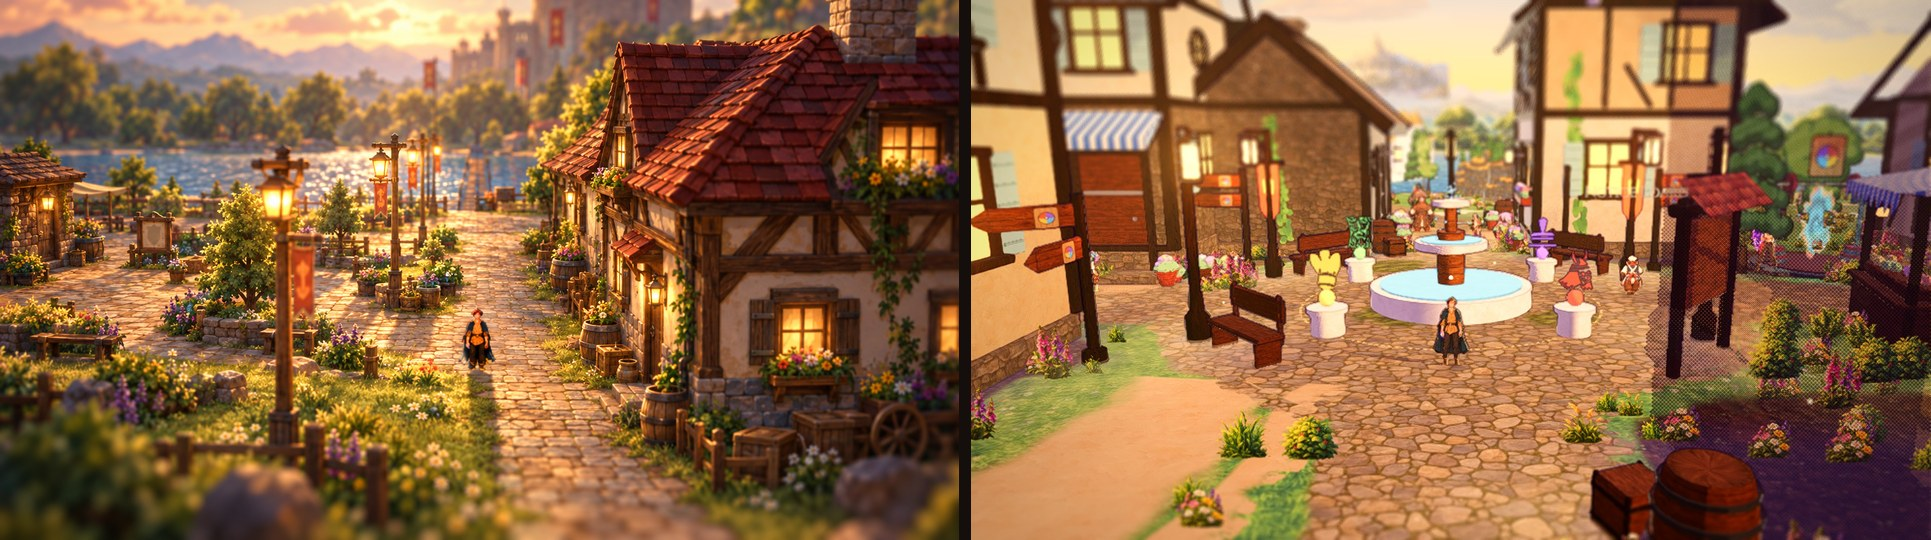
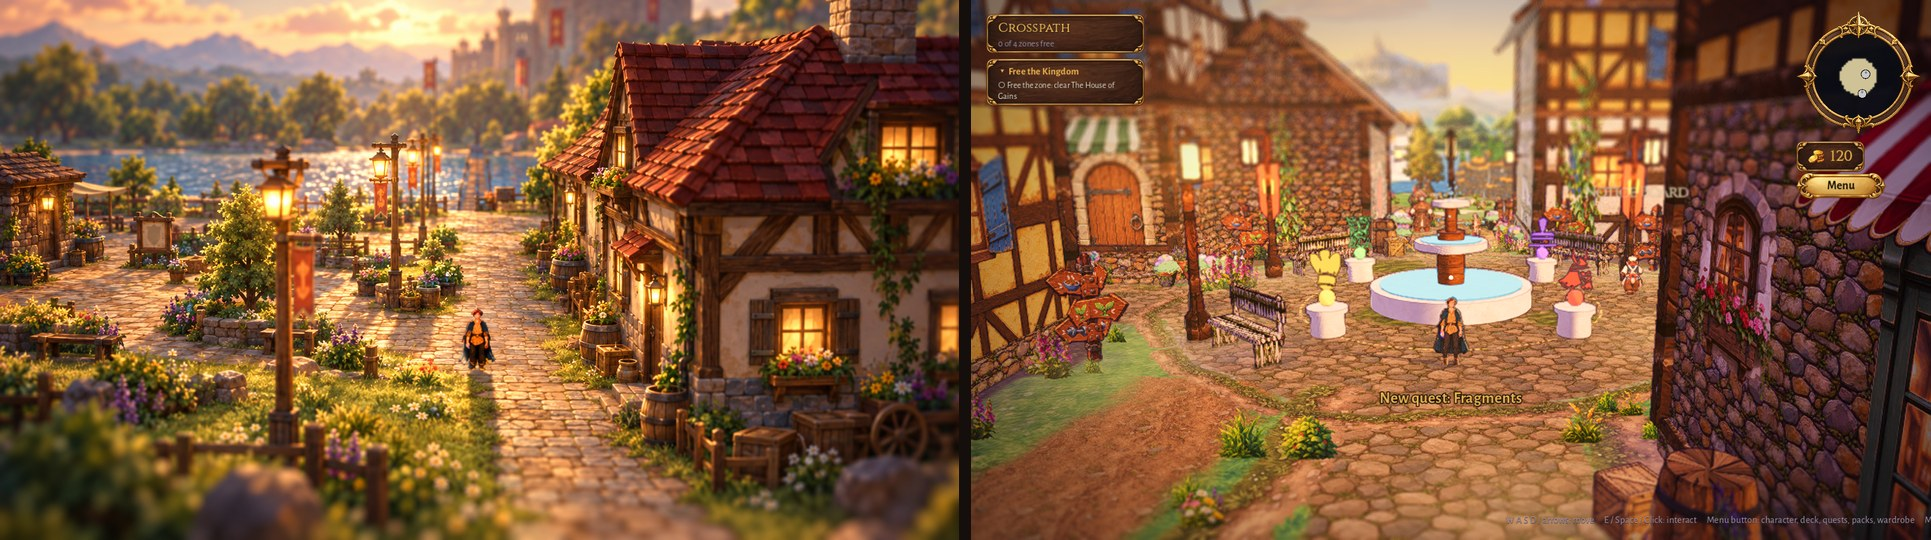
Environment kit, Parts C and D: grade matched to the town paint-over by numbers, occlusion tuned for kit buildings, signposts calmed, report with side-by-sides (default + 3 angles + dialogue), fps 59.7, remaining gaps, asset table and rollout plan incl. Gainlands; 1461 GUT tests pass

diff --git a/docs/art/vertical_slice.md b/docs/art/vertical_slice.md
@@ -1,7 +1,7 @@
 # Vertical slice: the main town square
 
 The first vertical slice rebuilds the town square to match the approved paint-over (`docs/art/paintovers/PAINTOVER-TOWN.png`, an HD-2D, Octopath-like look, painted).
-Everything is built in code from an **Environment Kit**: placeholder textures now (existing TEX-MAT-* / TEX-TOWN-* and a few generated stand-ins), and every slot takes the real
+Everything is built in code from an **Environment Kit**: the real approved art is in (see "Environment kit art pass"); a missing file falls back to a placeholder, and every slot takes the real
 kit art by dropping a file in `assets/art/env_kit/`. Judgment calls are VS-1 ... VS-14 in `docs/design/open_questions.md`. Gameplay, quests, NPC logic and the camera style
 are untouched (the camera rig, FOV, pitch and tilt-shift are the approved values).
 
@@ -44,124 +44,199 @@ Tools: `tools/kit_bench.tscn` (`bash tools/shot.sh res://tools/kit_bench.tscn na
   closed Alchemist and Arena show a padlock; what the signs said is read in a popup when the hero uses them (signposts) or in the dialogue and the prompt (the others).
 - **Scale rule:** the hero (1.25 m) reaches a third of the way up a 3.4 m door; lamp posts 4.2 m, fences 1.1 m, barrels 1.1 m.
 
-## What is still placeholder, by kit ID
+## Environment kit art pass (the real art, Parts A - D)
 
-`bash tools/import_env_kit.sh` (copy-only from `Approved_EnvKit`) turns a placeholder into the real art with no code change. **All 48 sheet ids are in the Drive's `Approved_EnvKit`
-folder now** (it appeared while the slice was being built): a preview with that art is in `vertical_slice/preview_real_art_square.jpg` (not committed to the game; see
-"Dropping the real art in"). Until then every id is a placeholder:
+All 48 kit ids of the sheet (`data/source/env_kit.csv`, rows 8 - 55) are now real art in the game. The Drive folder `G:\My Drive\Card Game Art\Approved_EnvKit` is read-only
+(copy-only import: `bash tools/import_env_kit.sh`, path in `data/source/art_config.cfg` as `envkit_dir`). **Missing ids: none. Files that match no id: none**
+(`PAINTOVER-TOWN.png` and `PAINTOVER-GAINLANDS.png` sit in the same folder as targets, not kit art). Report: `docs/art/env_kit_import_report.md`; judgment calls EK-1 .. EK-5
+in `docs/design/open_questions.md`.
+
+### Paint-over beside the square
+
+![paint-over (left) and the square from the same camera (right)](vertical_slice/compare_square.jpg)
+
+| Angle | |
+|---|---|
+| West market street: the card shop's painted arch door, awning, window box, flowerpot cards, barrel, signposts | ![](vertical_slice/kit_market.jpg) |
+| South end of the square, the Deck Station | ![](vertical_slice/kit_inn.jpg) |
+| Gate Road north | ![](vertical_slice/kit_gate.jpg) |
+| An NPC dialogue open (the card vendor) | ![](vertical_slice/kit_dialogue.jpg) |
+
+### What was done
+
+- **Surfaces**: seams measured on the tiling axes the sheet names and repaired by an edge-band crossfade only where it lowers the seam (cobble, dirt, grass, plank, hedge); the timber
+  walls and the foundation are left as painted (a crossfade ghosted their posts, the raw art already tiles). Normal and roughness maps are derived from the painted luminance
+  (`<ID>_n.webp`, `<ID>_r.webp`) and read by the toon shader (a gentle relief and a soft sheen on iron / varnish). One texel density (400 px/m: a 1024 px tile is 2.56 m) for every
+  surface; a painted wall repeats once per storey so beams land on the floor lines.
+- **Cut-outs and trees**: transparency was already clean (corners alpha 0); faint alpha is cleared, colour is bled into the border (no gray fringe under linear filtering), the
+  art is trimmed and given a pivot (doors / windows / awnings at the base, signs at the iron bracket plate, trees and the signpost at the trunk base). Numbers in
+  `data/art/env_kit_prep.json`.
+- **Concept props**: the well (stone curb, posts, crank, bucket, red-tiled gable), the stall (plank counter, crates of produce, striped scalloped awning, lantern, optional cloth goods
+  card) and the cart (plank bed, spoked wheels, canvas hood, crate, sacks) are rebuilt after ENV-PROP-WELL / -STALL / -CART and textured with kit surfaces.
+- **Square**: painted doors on a stone step (arch, glazed double, round), painted windows (shutters and flower boxes are in the art; lit glass keeps its light pool), awnings
+  as one slanted card, shop signs hung on their bracket (cards, potion, shield, needle, pack, flask, inn), flowerpot cards at doorsteps, painted tree cards by aspect and
+  trunk base, fence cards, the Path signpost, cloth goods on a stall counter. Kit buildings no longer dither away at the lens edge (only their core blocks the hero).
+
+### Numbers
+
+| | paint-over | square (final) |
+|---|---|---|
+| mean RGB | 127, 90, 57 | 135, 94, 65 |
+| luma p5 / p50 / p95 | 26 / 89 / 208 | 24 / 100 / 203 |
+| mean saturation | 0.58 | 0.55 |
+
+**fps (Medium, `tools/fps.sh res://scenes/town.tscn medium`)**: **59.7 - 59.9 avg** (16.7 ms; 590 draw calls, 1,190 objects, 355k primitives; was 55 - 57), min 28 - 34 on the
+first frames while the scene streams. GUT: 1461 / 1461.
+
+### What still does not match (honest list)
+
+1. **Camera framing**: the camera is fixed (approved), so the right-hand building (the Deck Station) fills a third of the frame from the spawn where the paint-over shows the lake
+   and a pier. The paint-over's composition is one painter's cropping; the game cannot move the building without moving the layout. Closest fix: shift the spawn / the inn.
+2. **Fountain and pedestals** are still the one white, out-of-palette set in the square (no kit art; see `ENV-PROP-FOUNTAIN`).
+3. **Roof tiles**: the three roof surfaces are not on the sheet; the existing TEX-MAT-ROOF-* are used (they are redder / flatter than the paint-over's mossy tiles).
+4. **Lamp posts and banners** are built in code (iron and wood, flat red banner); the paint-over's carved posts with bracket scrolls and gold-fringed banners need art.
+5. **Flower beds and low stone walls** are the foliage atlas and a stone box; the paint-over's flowers are denser and brighter in the mid ground.
+6. **Haze and depth**: the paint-over has a stronger warm haze over the lake and a brighter horizon; the tilt-shift is matched in strength but the far trees are flatter.
+7. **Signposts**: the four Path signposts around the fountain are busier than the paint-over's empty lane; they are functional (popups) so they stay, at a calmer size.
+8. **Characters**: sprites remain the clearest things on screen (the environment's saturation was not raised; shadows were lifted slightly so they do not sink into dark walls).
+
+### Extra assets that would close the gap (paste into the sheet)
+
+| ID | Asset | Category | Lock | Image Description | Size / Format | In-Game Use | Priority |
+|---|---|---|---|---|---|---|---|
+| ENV-ROOF-TILE-RED | Red clay roof tiles | Roof surface | SURFACE | Terracotta-red clay roof tiles in soft overlapping rows with a few mossy tiles, seamless | 1024x1024 PNG, tileable both ways | Town roofs (the paint-over's big red roof) | High |
+| ENV-ROOF-TILE-BLUE | Slate blue roof tiles | Roof surface | SURFACE | The same tile pattern in slate blue-grey | 1024x1024 PNG, tileable both ways | Alchemist, chapel, hall | Medium |
+| ENV-ROOF-THATCH | Golden thatch | Roof surface | SURFACE | Golden thatch with shaggy straw lines and a darker band at the eave | 1024x1024 PNG, tileable both ways | Cottages, huts | Medium |
+| ENV-ROOF-RIDGE | Ridge cap | Trim | CUTOUT | A short run of curved ridge cap tiles seen from the side | 1536x512 PNG, transparent | Roof ridges | Low |
+| ENV-CHIMNEY-STONE | Stone chimney | Cut-out | CUTOUT | A stone chimney stack with a stepped cap and two clay pots, straight-on | 1024x1536 PNG, transparent | Chimneys (the paint-over's stone chimney) | Medium |
+| ENV-WALL-STONE | Fieldstone wall | Wall surface | SURFACE | A full fieldstone wall in warm greys and tans with a little moss | 1024x1024 PNG, tileable horizontally | Cave hut, hall, chapel | High |
+| ENV-BANNER-01 | Hanging banner (red) | Cut-out | CUTOUT | A hanging cloth banner with gold fringe and the Path symbol, red | 768x1536 PNG, transparent | Lamp-post banners | High |
+| ENV-BANNER-02 | Hanging banner (blue) | Cut-out | CUTOUT | The same banner in blue | 768x1536 PNG, transparent | Lamp-post banners, Gainlands | Medium |
+| ENV-PROP-LAMPPOST | Wooden lamp post | Prop concept | CUTOUT | The tall carved lamp post with iron lantern bracket from the low game camera | 1024x1536 PNG, transparent | Avenue lamps | High |
+| ENV-PROP-FOUNTAIN | Town fountain | Prop concept | CUTOUT | Warm worn stone basin with moss, a pillar and a small crest | 1536x1536 PNG, transparent | Town square centre (the one white piece left) | High |
+| ENV-PROP-BENCH | Plank bench | Prop | CUTOUT | A weathered plank bench seen from the front | 1536x512 PNG, transparent | Benches | Low |
+| ENV-PROP-FLOWERBOX | Window flower box | Cut-out | CUTOUT | A long wooden window box brimming with mixed flowers | 1536x512 PNG, transparent | Window sills | Medium |
+| ENV-PLANT-FLOWERS-01 | Flower clump (daisy) | Plant | CUTOUT | Daisies and yellow blooms, base at bottom centre | 1024x1024 PNG, transparent | Beds, verges | Medium |
+| ENV-PLANT-FLOWERS-02 | Flower clump (lavender) | Plant | CUTOUT | Lavender spikes with grass | 1024x1024 PNG, transparent | Beds, verges | Medium |
+| ENV-PLANT-FLOWERS-03 | Flower clump (foxglove) | Plant | CUTOUT | Foxgloves and ferns | 1024x1024 PNG, transparent | Beds, verges | Medium |
+| ENV-GROUND-CURB | Stone curb | Ground surface | SURFACE | A strip of cut stone curb and low garden wall | 1536x512 PNG, tileable horizontally | Flower beds, square edge | Medium |
+| ENV-PROP-PIER | Wooden pier | Prop concept | CUTOUT | The little wooden pier at the end of the street, three-quarter view | 1536x1024 PNG, transparent | Gate Road end, lake edge | Medium |
+| ENV-PROP-BUCKET | Bucket | Prop | CUTOUT | A wooden bucket with an iron handle | 1024x1024 PNG, transparent | Doorsteps, stalls | Low |
+| ENV-PROP-HAYBALE | Hay bale | Prop | CUTOUT | A round straw bale | 1024x1024 PNG, transparent | Farms, carts | Low |
+| ENV-PROP-WHEELBARROW | Wheelbarrow | Prop | CUTOUT | A wooden wheelbarrow with a sack | 1024x1024 PNG, transparent | Doorsteps, work sites | Low |
+| ENV-DEC-LIGHTPOOL | Lantern light pool | Decal | CUTOUT | A soft warm elliptical pool of light with a brighter core | 1024x1024 PNG, additive | Under lamps and windows | Medium |
+| ENV-GROUND-COBBLE-WARM | Warm cobble | Ground surface | SURFACE | The cobble in a warmer, sunlit tone with fewer moss patches | 1024x1024 PNG, tileable both ways | Sunlit plaza | Low |
+
+### Kit status (generated by `tools/env_kit_status.gd`)
 
 | Kit ID | Slot | Lock / size | Now | Placeholder | Used by |
 |---|---|---|---|---|---|
-| `ENV-WALL-TIMBER` | wall.main | SURFACE 1024x1024 PNG, tileable horizontally | placeholder | tex:mat_plaster | 6 building presets (home_a, home_b, card_shop) |
-| `ENV-WALL-TIMBER-WARM` | wall.warm | SURFACE 1024x1024 PNG, tileable horizontally | placeholder | tex:mat_plaster | 8 building presets (home_a, home_b, inn) |
-| `ENV-WALL-PLANK` | wall.plank | SURFACE 1024x1024 PNG, tileable horizontally | placeholder | tex:mat_woodplanks | 2 building presets (cottage, equipment_shop) |
-| `ENV-WALL-FOUNDATION` | wall.foundation | SURFACE 1024x512 PNG, tileable horizontally | placeholder | tex:mat_stonewall | 13 building presets (home_a, home_b, cottage) |
-| `ENV-ROOF-EAVE` | roof.eave | CUTOUT 1536x512 PNG, transparent | placeholder | tex:mat_timber | 13 building presets (home_a, home_b, cottage) |
-| `ENV-BEAM` | wall.beam | CUTOUT 1536x512 PNG, transparent | placeholder | tex:mat_timber | 13 building presets (home_a, home_b, cottage) |
-| `ENV-AWNING-01` | awning.a | CUTOUT 1536x1024 PNG, transparent | placeholder | gen:stripes_red | 5 building presets (home_b, inn, card_shop) |
-| `ENV-AWNING-02` | awning.b | CUTOUT 1536x1024 PNG, transparent | placeholder | gen:stripes_green | 2 building presets (potion_shop, clothing_shop) |
-| `ENV-DOOR-01` | door.a | CUTOUT 1024x1536 PNG, transparent | placeholder | tex:mat_woodplanks | 5 building presets (home_a, home_b, cottage) |
-| `ENV-DOOR-02` | door.b | CUTOUT 1024x1536 PNG, transparent | placeholder | tex:mat_woodplanks | 4 building presets (inn, card_shop, equipment_shop) |
-| `ENV-DOOR-03` | door.c | CUTOUT 1024x1024 PNG, transparent | placeholder | tex:mat_woodplanks | 4 building presets (alchemist, stone_hut, chapel) |
-| `ENV-WINDOW-01` | window.a | CUTOUT 1024x1024 PNG, transparent | placeholder | gen:window_cross | 13 building presets (home_a, home_b, cottage) |
-| `ENV-WINDOW-02` | window.b | CUTOUT 1024x1024 PNG, transparent | placeholder | gen:window_wide | 7 building presets (home_a, home_b, inn) |
-| `ENV-WINDOW-03` | window.c | CUTOUT 1024x1024 PNG, transparent | placeholder | gen:window_dark | 1 building presets (home_a) |
-| `ENV-WINDOW-04` | window.d | CUTOUT 1024x1024 PNG, transparent | placeholder | gen:window_round | 6 building presets (home_b, card_shop, potion_shop) |
-| `ENV-WINDOW-05` | window.e | CUTOUT 1536x1024 PNG, transparent | placeholder | gen:window_shop | 2 building presets (card_shop, clothing_shop) |
-| `ENV-SIGN-CARDS` | sign.cards | CUTOUT 1024x1024 PNG, transparent | placeholder | gen:sign_cards | 1 building presets (card_shop) |
-| `ENV-SIGN-POTION` | sign.potion | CUTOUT 1024x1024 PNG, transparent | placeholder | gen:sign_potion | 1 building presets (potion_shop) |
-| `ENV-SIGN-SHIELD` | sign.shield | CUTOUT 1024x1024 PNG, transparent | placeholder | gen:sign_shield | 1 building presets (equipment_shop) |
-| `ENV-SIGN-NEEDLE` | sign.needle | CUTOUT 1024x1024 PNG, transparent | placeholder | gen:sign_needle | 1 building presets (clothing_shop) |
-| `ENV-SIGN-PACK` | sign.pack | CUTOUT 1024x1024 PNG, transparent | placeholder | gen:sign_pack | 1 building presets (pack_shop) |
-| `ENV-SIGN-FLASK` | sign.flask | CUTOUT 1024x1024 PNG, transparent | placeholder | gen:sign_flask | 1 building presets (alchemist) |
-| `ENV-SIGN-INN` | sign.inn | CUTOUT 1024x1024 PNG, transparent | placeholder | gen:sign_inn | 1 building presets (inn) |
-| `ENV-SIGNPOST` | sign.post | CUTOUT 1024x1536 PNG, transparent | placeholder | gen:sign_path | PropKit signpost (Path crest), passage signs, Rift Express sign |
-| `ENV-GROUND-DIRTPATH` | ground.dirt | SURFACE 1024x1024 PNG, tileable | placeholder | tex:mat_plaster | PathTool dirt paths (grave road, south road), worn patches |
-| `ENV-GROUND-COBBLE` | ground.cobble | SURFACE 1024x1024 PNG, tileable | placeholder | tex:town_stone | PathTool cobble streets and the plaza |
-| `ENV-GROUND-GRASS-CALM` | ground.grass | SURFACE 1024x1024 PNG, tileable | placeholder | tex:town_grass | kit bench ground (the town keeps its painted TEX-TOWN-GRASS ground) |
-| `DEC-PATHEDGE` | decal.pathedge | CUTOUT 1536x512 PNG, transparent | placeholder | gen:pathedge | PathTool edge strips |
-| `DEC-WORNPATCH` | decal.worn | CUTOUT 1024x1024 PNG, transparent | placeholder | gen:wornpatch | doorsteps, bends (PathTool.patch) |
-| `DEC-IVY` | decal.ivy | CUTOUT 1024x1536 PNG, transparent | placeholder | gen:ivy | 5 building presets (home_a, cottage, inn), wall sockets (ivy) |
-| `DEC-WALLSTAIN` | decal.stain | CUTOUT 1024x1024 PNG, transparent | placeholder | gen:wallstain | wall sockets (stain) |
-| `ENV-TREE-OAK` | tree.oak | TREE 1024x1536 PNG, transparent | placeholder | gen:tree_oak | TreeCards / tree fields |
-| `ENV-TREE-FRUIT` | tree.fruit | TREE 1024x1536 PNG, transparent | placeholder | gen:tree_fruit | TreeCards / tree fields |
-| `ENV-TREE-PINE` | tree.pine | TREE 1024x1536 PNG, transparent | placeholder | gen:tree_pine | TreeCards / tree fields |
-| `ENV-TREE-BIRCH` | tree.birch | TREE 1024x1536 PNG, transparent | placeholder | gen:tree_birch | TreeCards / tree fields |
-| `ENV-HEDGE` | hedge | SURFACE 1024x1024 PNG, tileable | placeholder | tex:mat_leaves | PropKit hedge, bush |
-| `ENV-PROP-BARREL` | prop.barrel | SURFACE 1024x1024 PNG, tileable horizontally | placeholder | tex:mat_woodplanks | PropKit barrel |
-| `ENV-PROP-CRATE` | prop.crate | SURFACE 1024x1024 PNG | placeholder | tex:mat_woodplanks | PropKit crate |
-| `ENV-PROP-SACK` | prop.sack | SURFACE 1024x1024 PNG, tileable | placeholder | gen:burlap | PropKit sack, stall, cart |
-| `ENV-PROP-FENCE` | prop.fence | CUTOUT 1536x512 PNG, transparent | placeholder | tex:mat_woodplanks | PropKit picket fence, bench, planter |
-| `ENV-PROP-FENCE-RAIL` | prop.rail | CUTOUT 1536x512 PNG, transparent | placeholder | tex:mat_woodplanks | PropKit rail fence |
-| `ENV-PROP-CANVAS` | prop.canvas | SURFACE 1024x1024 PNG, tileable | placeholder | gen:stripes_cream | PropKit cart hood |
-| `ENV-PROP-CLOTHGOODS` | prop.cloth | CUTOUT 1536x1024 PNG, transparent | placeholder | gen:stripes_blue | (clothier counter: not built yet) |
-| `ENV-PROP-FLOWERPOTS` | prop.pots | CUTOUT 1024x1024 PNG, transparent | placeholder | tex:mat_brick | PropKit flowerpot, building pots and window boxes |
-| `ENV-PROP-LANTERN` | prop.lantern | CUTOUT 1024x1024 PNG, transparent | placeholder | tex:mat_metal | (lantern meshes are built; the card is for hung lanterns) |
-| `ENV-PROP-WELL` | prop.well | CUTOUT 1024x1536 PNG, transparent | placeholder | tex:mat_stonewall | PropKit well |
-| `ENV-PROP-STALL` | prop.stall | CUTOUT 1024x1536 PNG, transparent | placeholder | tex:mat_woodplanks | PropKit stall |
-| `ENV-PROP-CART` | prop.cart | CUTOUT 1024x1536 PNG, transparent | placeholder | tex:mat_woodplanks | PropKit cart |
+| `ENV-WALL-TIMBER` | wall.main | SURFACE 1024x1024 PNG, tileable horizontally | art | tex:mat_plaster | 6 building presets (home_a, home_b, card_shop) |
+| `ENV-WALL-TIMBER-WARM` | wall.warm | SURFACE 1024x1024 PNG, tileable horizontally | art | tex:mat_plaster | 8 building presets (home_a, home_b, inn) |
+| `ENV-WALL-PLANK` | wall.plank | SURFACE 1024x1024 PNG, tileable horizontally | art | tex:mat_woodplanks | 2 building presets (cottage, equipment_shop) |
+| `ENV-WALL-FOUNDATION` | wall.foundation | SURFACE 1024x512 PNG, tileable horizontally | art | tex:mat_stonewall | 13 building presets (home_a, home_b, cottage) |
+| `ENV-ROOF-EAVE` | roof.eave | CUTOUT 1536x512 PNG, transparent | art | tex:mat_timber | 13 building presets (home_a, home_b, cottage) |
+| `ENV-BEAM` | wall.beam | CUTOUT 1536x512 PNG, transparent | art | tex:mat_timber | 13 building presets (home_a, home_b, cottage) |
+| `ENV-AWNING-01` | awning.a | CUTOUT 1536x1024 PNG, transparent | art | gen:stripes_red | 5 building presets (home_b, inn, card_shop) |
+| `ENV-AWNING-02` | awning.b | CUTOUT 1536x1024 PNG, transparent | art | gen:stripes_green | 2 building presets (potion_shop, clothing_shop) |
+| `ENV-DOOR-01` | door.a | CUTOUT 1024x1536 PNG, transparent | art | tex:mat_woodplanks | 5 building presets (home_a, home_b, cottage) |
+| `ENV-DOOR-02` | door.b | CUTOUT 1024x1536 PNG, transparent | art | tex:mat_woodplanks | 4 building presets (inn, card_shop, equipment_shop) |
+| `ENV-DOOR-03` | door.c | CUTOUT 1024x1024 PNG, transparent | art | tex:mat_woodplanks | 4 building presets (alchemist, stone_hut, chapel) |
+| `ENV-WINDOW-01` | window.a | CUTOUT 1024x1024 PNG, transparent | art | gen:window_cross | 13 building presets (home_a, home_b, cottage) |
+| `ENV-WINDOW-02` | window.b | CUTOUT 1024x1024 PNG, transparent | art | gen:window_wide | 7 building presets (home_a, home_b, inn) |
+| `ENV-WINDOW-03` | window.c | CUTOUT 1024x1024 PNG, transparent | art | gen:window_dark | 1 building presets (home_a) |
+| `ENV-WINDOW-04` | window.d | CUTOUT 1024x1024 PNG, transparent | art | gen:window_round | 6 building presets (home_b, card_shop, potion_shop) |
+| `ENV-WINDOW-05` | window.e | CUTOUT 1536x1024 PNG, transparent | art | gen:window_shop | 2 building presets (card_shop, clothing_shop) |
+| `ENV-SIGN-CARDS` | sign.cards | CUTOUT 1024x1024 PNG, transparent | art | gen:sign_cards | 1 building presets (card_shop) |
+| `ENV-SIGN-POTION` | sign.potion | CUTOUT 1024x1024 PNG, transparent | art | gen:sign_potion | 1 building presets (potion_shop) |
+| `ENV-SIGN-SHIELD` | sign.shield | CUTOUT 1024x1024 PNG, transparent | art | gen:sign_shield | 1 building presets (equipment_shop) |
+| `ENV-SIGN-NEEDLE` | sign.needle | CUTOUT 1024x1024 PNG, transparent | art | gen:sign_needle | 1 building presets (clothing_shop) |
+| `ENV-SIGN-PACK` | sign.pack | CUTOUT 1024x1024 PNG, transparent | art | gen:sign_pack | 1 building presets (pack_shop) |
+| `ENV-SIGN-FLASK` | sign.flask | CUTOUT 1024x1024 PNG, transparent | art | gen:sign_flask | 1 building presets (alchemist) |
+| `ENV-SIGN-INN` | sign.inn | CUTOUT 1024x1024 PNG, transparent | art | gen:sign_inn | 1 building presets (inn) |
+| `ENV-SIGNPOST` | sign.post | CUTOUT 1024x1536 PNG, transparent | art | gen:sign_path | PropKit signpost (Path crest), passage signs, Rift Express sign |
+| `ENV-GROUND-DIRTPATH` | ground.dirt | SURFACE 1024x1024 PNG, tileable | art | tex:mat_plaster | PathTool dirt paths (grave road, south road), worn patches |
+| `ENV-GROUND-COBBLE` | ground.cobble | SURFACE 1024x1024 PNG, tileable | art | tex:town_stone | PathTool cobble streets and the plaza |
+| `ENV-GROUND-GRASS-CALM` | ground.grass | SURFACE 1024x1024 PNG, tileable | art | tex:town_grass | kit bench ground (the town keeps its painted TEX-TOWN-GRASS ground) |
+| `DEC-PATHEDGE` | decal.pathedge | CUTOUT 1536x512 PNG, transparent | art | gen:pathedge | PathTool edge strips |
+| `DEC-WORNPATCH` | decal.worn | CUTOUT 1024x1024 PNG, transparent | art | gen:wornpatch | doorsteps, bends (PathTool.patch) |
+| `DEC-IVY` | decal.ivy | CUTOUT 1024x1536 PNG, transparent | art | gen:ivy | 5 building presets (home_a, cottage, inn), wall sockets (ivy) |
+| `DEC-WALLSTAIN` | decal.stain | CUTOUT 1024x1024 PNG, transparent | art | gen:wallstain | wall sockets (stain) |
+| `ENV-TREE-OAK` | tree.oak | TREE 1024x1536 PNG, transparent | art | gen:tree_oak | TreeCards / tree fields |
+| `ENV-TREE-FRUIT` | tree.fruit | TREE 1024x1536 PNG, transparent | art | gen:tree_fruit | TreeCards / tree fields |
+| `ENV-TREE-PINE` | tree.pine | TREE 1024x1536 PNG, transparent | art | gen:tree_pine | TreeCards / tree fields |
+| `ENV-TREE-BIRCH` | tree.birch | TREE 1024x1536 PNG, transparent | art | gen:tree_birch | TreeCards / tree fields |
+| `ENV-HEDGE` | hedge | SURFACE 1024x1024 PNG, tileable | art | tex:mat_leaves | PropKit hedge, bush |
+| `ENV-PROP-BARREL` | prop.barrel | SURFACE 1024x1024 PNG, tileable horizontally | art | tex:mat_woodplanks | PropKit barrel |
+| `ENV-PROP-CRATE` | prop.crate | SURFACE 1024x1024 PNG | art | tex:mat_woodplanks | PropKit crate |
+| `ENV-PROP-SACK` | prop.sack | SURFACE 1024x1024 PNG, tileable | art | gen:burlap | PropKit sack, stall, cart |
+| `ENV-PROP-FENCE` | prop.fence | CUTOUT 1536x512 PNG, transparent | art | tex:mat_woodplanks | PropKit picket fence, bench, planter |
+| `ENV-PROP-FENCE-RAIL` | prop.rail | CUTOUT 1536x512 PNG, transparent | art | tex:mat_woodplanks | PropKit rail fence |
+| `ENV-PROP-CANVAS` | prop.canvas | SURFACE 1024x1024 PNG, tileable | art | gen:stripes_cream | PropKit cart hood |
+| `ENV-PROP-CLOTHGOODS` | prop.cloth | CUTOUT 1536x1024 PNG, transparent | art | gen:stripes_blue | (clothier counter: not built yet) |
+| `ENV-PROP-FLOWERPOTS` | prop.pots | CUTOUT 1024x1024 PNG, transparent | art | tex:mat_brick | PropKit flowerpot, building pots and window boxes |
+| `ENV-PROP-LANTERN` | prop.lantern | CUTOUT 1024x1024 PNG, transparent | art | tex:mat_metal | (lantern meshes are built; the card is for hung lanterns) |
+| `ENV-PROP-WELL` | prop.well | CUTOUT 1024x1536 PNG, transparent | art | tex:mat_stonewall | PropKit well |
+| `ENV-PROP-STALL` | prop.stall | CUTOUT 1024x1536 PNG, transparent | art | tex:mat_woodplanks | PropKit stall |
+| `ENV-PROP-CART` | prop.cart | CUTOUT 1024x1536 PNG, transparent | art | tex:mat_woodplanks | PropKit cart |
 | `ENV-ROOF-TILE-RED` | roof.red |   | placeholder | tex:mat_roof_red | 6 building presets (home_a, home_b, inn) |
 | `ENV-ROOF-TILE-BLUE` | roof.blue |   | placeholder | tex:mat_roof_blue | 4 building presets (potion_shop, alchemist, chapel) |
 | `ENV-ROOF-THATCH` | roof.thatch |   | placeholder | tex:mat_thatch | 3 building presets (cottage, pack_shop, stone_hut) |
 
-The three roof surfaces are not on the sheet (the sheet's `ENV-ROOF-EAVE` is the fascia only): `ENV-ROOF-TILE-RED`, `ENV-ROOF-TILE-BLUE`, `ENV-ROOF-THATCH` are suggested ids
-(see "What else would close the gap") and use TEX-MAT-ROOF-RED / -BLUE / -THATCH now.
+The three roof surfaces (`ENV-ROOF-TILE-RED`, `-BLUE`, `ENV-ROOF-THATCH`) are suggested ids, not on the sheet: they still use TEX-MAT-ROOF-*.
 
-## Dropping the real art in
+## Rollout plan
 
-`EnvKit.texture(id)` takes `assets/art/env_kit/<ID>.webp` when it exists, so the import is the whole integration. Looking at the art in the slice before committing it
-(`ENV_KIT_ART_DIR=res://_art_inbox/env_kit_preview/` after `bash tools/import_env_kit.sh --out=res://_art_inbox/env_kit_preview/`) shows it drops in cleanly (trees,
-cobbles, signs and windows read well) and what the first art pass should adjust:
+### Method (the same for every area)
 
-1. **Wall surfaces already paint the half-timbering**, so the geometry studs and braces double it: set `"timber": "none"` in the presets (or only keep posts and floor beams) and
-   re-check the `tile` size (2.4 m shows the pattern about every wall panel).
-2. **Doors, windows, awnings and signs are cut-outs with their own frame / bracket**: the kit swaps the geometry for a quad when art exists, but the quad size and aspect
-   (doors 2:3, signs 1:1, awnings 3:2) should be set from the sheet's size column rather than the placeholder metres.
-3. **Fence, barrel and crate art is one face**: wrap with the sheet's mapping notes (crate: one face per side; barrel: tileable horizontally).
-4. Re-run `bash tools/run_town_slice_smoke.sh` and the fps probe after the swap.
+1. **Reference first**: the zone's paint-over goes next to the shot (`tools/side_by_side.gd`) and the grade is matched by numbers (mean RGB, luma p5 / p50 / p95, saturation: the
+   script in this pass's report) before art is judged by eye. Grade is data (`StylePresets`, `zone_looks.json`).
+2. **Layout, then kit**: each building is a preset (`data/art/building_presets.json`) and a `TownLayout._kit` row; roads are `PathTool` curves; props are `PropClusters`
+   placed at doorsteps and corners, never scattered on lanes. Painted surfaces are dropped in by id (`bash tools/import_env_kit.sh`), nothing else changes.
+3. **Check**: `tools/occlusion_probe.gd` (what dithers at the spawn), `tools/kit_bench.tscn` (one preset / prop in isolation), `tools/fps.sh` (Medium must hold 60), the e2e
+   smoke of the area changed, then side by side.
+4. **Budget**: batch anything repeated (`KitBatch`, MultiMesh, `KitPools`); cut-out cards over geometry where the art carries the detail (fences, signs, pots, signposts, doors);
+   keep real lights to the lantern budget.
 
-## What else would close the gap (suggested sheet rows)
+### Rest of the main town
 
-| Suggested ID | Category | Description |
+| Area | Kit pieces already there | Needs |
 |---|---|---|
-| `ENV-ROOF-TILE-RED` | Roof surface | Terracotta-red clay roof tiles in soft overlapping rows with a few mossy tiles, seamless, 1024x1024, tileable both ways (the paint-over's big red roof). |
-| `ENV-ROOF-TILE-BLUE` | Roof surface | The same tile pattern in slate blue-grey, for the Alchemist, the chapel and the hall. |
-| `ENV-ROOF-THATCH` | Roof surface | Golden thatch with shaggy straw lines and a darker band at the eave, seamless 1024x1024. |
-| `ENV-ROOF-RIDGE` | Trim cut-out | A short run of curved ridge cap tiles seen from the side, 1536x512, tileable left-right. |
-| `ENV-CHIMNEY-STONE` | Cut-out | A stone chimney stack with a stepped cap and two clay pots, straight-on, 1024x1536 (the paint-over's stone chimney). |
-| `ENV-WALL-STONE` | Wall surface | A full fieldstone wall (not only a foundation band) in warm greys and tans, seamless 1024x1024, for the cave hut, the hall and the chapel. |
-| `ENV-BANNER-01` / `-02` | Cut-out | A hanging cloth banner with a gold fringe and a Path symbol in red / blue, 768x1536, the lamp-post banners of the paint-over (now flat red cloth). |
-| `ENV-PROP-LAMPPOST` | Prop concept | The tall wooden lamp post of the paint-over with its iron lantern bracket, from the low game camera, 1024x1536 (now iron-and-wood built in code). |
-| `ENV-PROP-BENCH` | Prop texture | A weathered plank bench seen from the front, 1536x512, transparent (benches use the fence wood now). |
-| `ENV-PROP-FLOWERBOX` | Cut-out | A long wooden window box brimming with mixed flowers, 1536x512, transparent. |
-| `ENV-PLANT-FLOWERS-01...03` | Cut-out | Three flower clumps (daisies and yellow blooms, lavender, foxgloves) as separate cards, 1024x1024, base at the bottom centre (now the FOL atlas). |
-| `ENV-GROUND-CURB` | Ground surface | A strip of cut stone curb and low garden wall, 1536x512, tileable left-right (flowerbeds in the paint-over have stone walls). |
-| `ENV-PROP-FOUNTAIN` | Prop concept + surface | The town fountain in warm stone with a worn basin and moss (it is the one bright white, out-of-palette piece left in the square), plus a seamless warm stone surface for the crest plinths. |
-| `ENV-PROP-PIER` | Prop concept | The little wooden pier at the end of the street in the paint-over, three-quarter view, 1536x1024, to build the Gate Road's end. |
-| `ENV-PROP-BUCKET`, `ENV-PROP-HAYBALE`, `ENV-PROP-WHEELBARROW` | Prop cut-outs | Small dressing pieces for doorsteps and stalls, 1024x1024 each. |
-| `ENV-DEC-LIGHTPOOL` | Decal | A soft warm elliptical pool of lantern light with a slightly brighter core, 1024x1024, additive (now a generic soft disc). |
+| Gate Road and the castle approach | cobble, dirt path + edge, fence cards, pine / oak / birch cards, lamp posts | `ENV-PROP-PIER`, `ENV-WALL-STONE` (gatehouse), `ENV-BANNER-01` |
+| Houses on the side streets (Maren, homes) | timber walls (plain / warm), plank, foundation, eave, beam, doors 01 / 03, windows 01 - 04, ivy, stain, pots | `ENV-ROOF-TILE-RED`, `ENV-CHIMNEY-STONE`, `ENV-PROP-FLOWERBOX` |
+| Hall of Records, chapel | foundation, doors, windows, beams | `ENV-WALL-STONE`, `ENV-ROOF-TILE-BLUE`, `ENV-ROOF-RIDGE` |
+| Lake edge and the dock | hedge, fence rail, barrels, crates, sacks | `ENV-PROP-PIER`, `ENV-GROUND-CURB`, reeds |
+| Fountain plaza | cobble, benches (geometry) | `ENV-PROP-FOUNTAIN`, `ENV-PROP-BENCH` |
 
-## Performance (Ryzen 5 4500U iGPU, 1600x900, vsync off, `bash tools/fps.sh res://scenes/town.tscn <quality>`)
+### Zones
 
-| Quality | fps (avg ms) | Notes |
+| Zone | Reuses from the kit | Zone-specific additions (suggested ids) |
 |---|---|---|
-| Low | 59.7 (16.8) | |
-| **Medium** | **55 - 57 (17.5 - 18.1)** | was 59.1 - 60 before the slice; 849 draw calls (from 713), 1,448 objects, 726k primitives |
-| High | 18 (55) | the iGPU cannot carry High (as before; not a target) |
+| **Starting forest** | `ENV-TREE-PINE / -OAK / -BIRCH` (replaces the cones first), `ENV-GROUND-DIRTPATH`, `DEC-PATHEDGE`, `ENV-HEDGE`, `ENV-PROP-FENCE-RAIL`, `ENV-GROUND-GRASS-CALM` | `ENV-PLANT-FERN-01` (fern clump), `ENV-PLANT-MUSHROOM-01`, `ENV-PROP-STUMP`, `ENV-PROP-LOG`, `ENV-GROUND-MOSS` (darker moss floor), `ENV-DEC-LEAFLITTER`; a blue-dusk grade only |
+| **Gainlands (the gym)** | barrels, crates, sacks, canvas stalls (`ENV-PROP-STALL`, `-CANVAS`, awnings 01 / 02), fence cards, lanterns, pine trees, `DEC-WORNPATCH`, dirt path, hedge, `ENV-GROUND-GRASS-CALM`, signposts | see "Gainlands slice" below |
+| **Buffet (restaurants)** | plank walls, awnings, shop windows 05, signs (needle / flask pattern), `ENV-PROP-CLOTHGOODS` pattern, lanterns, crates | `ENV-SIGN-FORK`, `ENV-SIGN-CAKE`, `ENV-WALL-TILE-CHECKER` (kitchen tile surface), `ENV-PROP-TABLE`, `ENV-PROP-CHAIR`, `ENV-PROP-OVEN`, `ENV-PROP-SERVINGCART`, glossy sauce / counter surface (uses `kit_sheen`) |
+| **Heap / Dump** | plank walls, barrels, crates, sacks, cart, fence (weathered), `DEC-WALLSTAIN`, dirt path | `ENV-WALL-SCRAP` (corrugated metal), `ENV-PROP-JUNKPILE`, `ENV-PROP-TIRE`, `ENV-PROP-OILDRUM`, `ENV-GROUND-ASH` (grey rubble), `ENV-DEC-OILSTAIN` |
+| **Capital (facades, outskirts)** | foundation, timber walls, doors 02, windows 02 - 05, awnings, signs, lanterns, cobble, banners | `ENV-WALL-STONE-ASHLAR`, `ENV-ROOF-SLATE`, `ENV-WINDOW-GOTHIC`, `ENV-BANNER-03` (the Kingdom crest), `ENV-PROP-STATUE`, `ENV-GROUND-FLAGSTONE`; dark / freed variants are grades |
+| **D.N.A. (office)** | none of the cosy kit (cold monochrome by design) | `ENV-WALL-OFFICE`, `ENV-PROP-DESK`, `ENV-PROP-CUBICLE`, `ENV-GROUND-CARPET` in the desaturated grade |
+| **Dungeons** | stone foundation as wall, beams, barrels, crates, lanterns, ivy | `ENV-WALL-DUNGEON`, `ENV-GROUND-FLAGSTONE`, `ENV-PROP-TORCH`, `ENV-PROP-CHAINS`, `ENV-PROP-COBWEB` |
 
-**The Medium target of 60 is not quite met (about 3 fps short).** What was done: props, trees, lamp posts and pools are batched (a 1,640 draw-call first version is 849), buildings
-cast their shadows from a three-surface proxy, flat details share one surface, the ground tiles no longer dither as "foreground clutter" (a bug that was already there: it cost
-about 1 - 2 fps in the town), and the occlusion fader's tests run at about 16 Hz. What would close the rest: merging each building's twelve surfaces by material across the street
-(they must stay separate nodes for the dissolve), a smaller number of window glow quads, and fewer chimney emitters.
+### The Gainlands slice (from `PAINTOVER-GAINLANDS.png`)
 
-## Rolling the kit out to the other zones
+What the paint-over shows: a bright, saturated gym-fair on a green meadow at the lake: a **barrel-shaped gym hut** with a dumbbell crest, a glowing **quest portal beam** on a
+stepped stone platform with the hero, big **wooden signboards with a dumbbell** pictogram, blue-and-white and red-and-white **striped canvas stalls** hung with lanterns and
+**bunting**, a counter with coloured **jars**, **barbells and weight plates** on racks, **punching posts and ropes**, wooden fences, barrels, pines in the foreground, a dirt
+track and a stream in the lower right. It is warmer, greener and much busier than the town; the light is a lower, orange sun with a bright flare through the portal.
 
-1. **Buildings**: `BuildingPresets.build(name)` anywhere; a zone only needs a `TownLayout`-like list of (preset, position, yaw) and `TownKit.place_building` for obstacles. The
-   Gainlands gym, the Buffet's restaurants and the Dump's shacks are new presets in `building_presets.json` (wall / roof ids per zone, e.g. `ENV-WALL-PLANK` + rust roof).
-2. **Props and clusters**: `PropClusters.make(name)` + `TownKit.place_cluster` dress any doorway; `KitPools` / `KitBatch` batch them. New props are one function in `prop_kit.gd`.
-3. **Paths**: `PathTool.build(parent, control_points, {kind, width})`: each zone's roads become curves with a soft edge; the zone's ground texture id is the only change.
-4. **Trees**: `TownBuilder`'s tree fields and `TreeCards` replace the cone trees in the starting forest and the zones (the forest is the first candidate: it is where the sheet says
-   `ENV-TREE-PINE` replaces the cones).
-5. **Grade and light**: `green_calm` / `red_calm` and the sun yaw are per-area data in `zone_looks.json` / `StylePresets`; set them per zone from the paint-over of that zone
-   (`PAINTOVER-GAINLANDS.png` is the next).
-6. **Order that makes sense**: Starting forest (trees, paths), Gainlands (the second paint-over), then the Capital's facades, then the Buffet and the Dump.
+| Need | Reuse | New (suggested ids, same locks as the town kit) |
+|---|---|---|
+| Stalls and counters | `ENV-PROP-STALL` shape with `ENV-AWNING-01` (red) and a blue variant; barrels, crates, sacks, lanterns | `ENV-AWNING-03` (blue / cream stripes, 1536x1024 cut-out), `ENV-AWNING-04` (plain red canvas), `ENV-PROP-JARS` (a row of coloured jars, 1536x512 cut-out) |
+| Signage | `ENV-SIGNPOST`, `ENV-SIGN-*` bracket style | `ENV-SIGN-DUMBBELL` (big plank board on two posts, 1536x1024), `ENV-SIGN-DUMBBELL-SMALL`, `ENV-BANNER-DUMBBELL-BLUE / -RED` |
+| Gym hut | `ENV-WALL-PLANK`, `ENV-BEAM`, door 03 | `ENV-PROP-BARRELHUT` (the big barrel building as a concept image, 1536x1536), `ENV-ROOF-CANVAS` |
+| Equipment | wood and iron surfaces | `ENV-PROP-BARBELL-RACK`, `ENV-PROP-WEIGHTPLATE-YELLOW / -RED` (large painted discs), `ENV-PROP-KETTLEBELL`, `ENV-PROP-PUNCHPOST`, `ENV-PROP-ROPE` (the hung rope lines) |
+| Festival dressing | lanterns | `ENV-DEC-BUNTING` (a swag of triangular flags, 1536x512 tileable left-right), `ENV-PROP-FLAGPOLE` |
+| Hub | `DEC-WORNPATCH`, cobble | `ENV-PROP-PLATFORM-STEPS` (a round stepped stone dais), `ENV-DEC-PORTALBEAM` (an additive vertical light beam) |
+| Ground | `ENV-GROUND-GRASS-CALM`, `-DIRTPATH`, `DEC-PATHEDGE` | `ENV-GROUND-GRASS-BRIGHT` (a more saturated meadow), `ENV-WATER-STREAM` edge decal |
+| Grade | `green_calm` 0 (already in `zone_looks.json`), warmth 0.12, saturation 1.16 | a lower sun (pitch about -22) and a stronger lake haze |
+
+Build order for the slice: layout and paths (the dais, three spokes), stalls and fences with existing kit, then the barrel hut and signboards as the first new art, then equipment
+and bunting; side by side after each step.

diff --git a/docs/design/open_questions.md b/docs/design/open_questions.md
@@ -722,3 +722,6 @@ Judgment calls from the first vertical slice (`docs/art/vertical_slice.md`): the
 - **EK-3** The seam repair (edge-band crossfade) is skipped for the structured patterns (timber walls, foundation): a crossfade ghosted their posts; the raw art tiles cleanly. It is applied only when it lowers the measured seam.
 - **EK-4** Normal and roughness maps are derived from the painted luminance (low strength, half resolution) and drive a soft sheen band in the toon shader; they do not change the flat toon look.
 - **EK-5** Well, stall and cart are re-modelled after the concept images and textured with kit surfaces; the concept images themselves are not used as textures.
+- **EK-6** (Part C) Grade matched by numbers against PAINTOVER-TOWN: town ambient 0.72 -> 0.86, contrast 1.1 -> 1.0, glow 0.1 -> 0.2, haze 0.0022 -> 0.0028, saturation 1.0 -> 1.06, exposure 0.82 -> 0.79 (shadow floor 16 -> 24 against 26, mean RGB within 8, saturation 0.55 against 0.58). Camera style and gameplay untouched.
+- **EK-7** Kit buildings dissolve only when the hero is behind their core (`occlusion_shrink` 2.6 m): the house at the lens edge is part of the paint-over's picture, not clutter.
+- **EK-8** Signposts shrank to 2.0 m crossed cards of ENV-SIGNPOST (Path symbols, no text); the four around the fountain are interaction points and stay.
